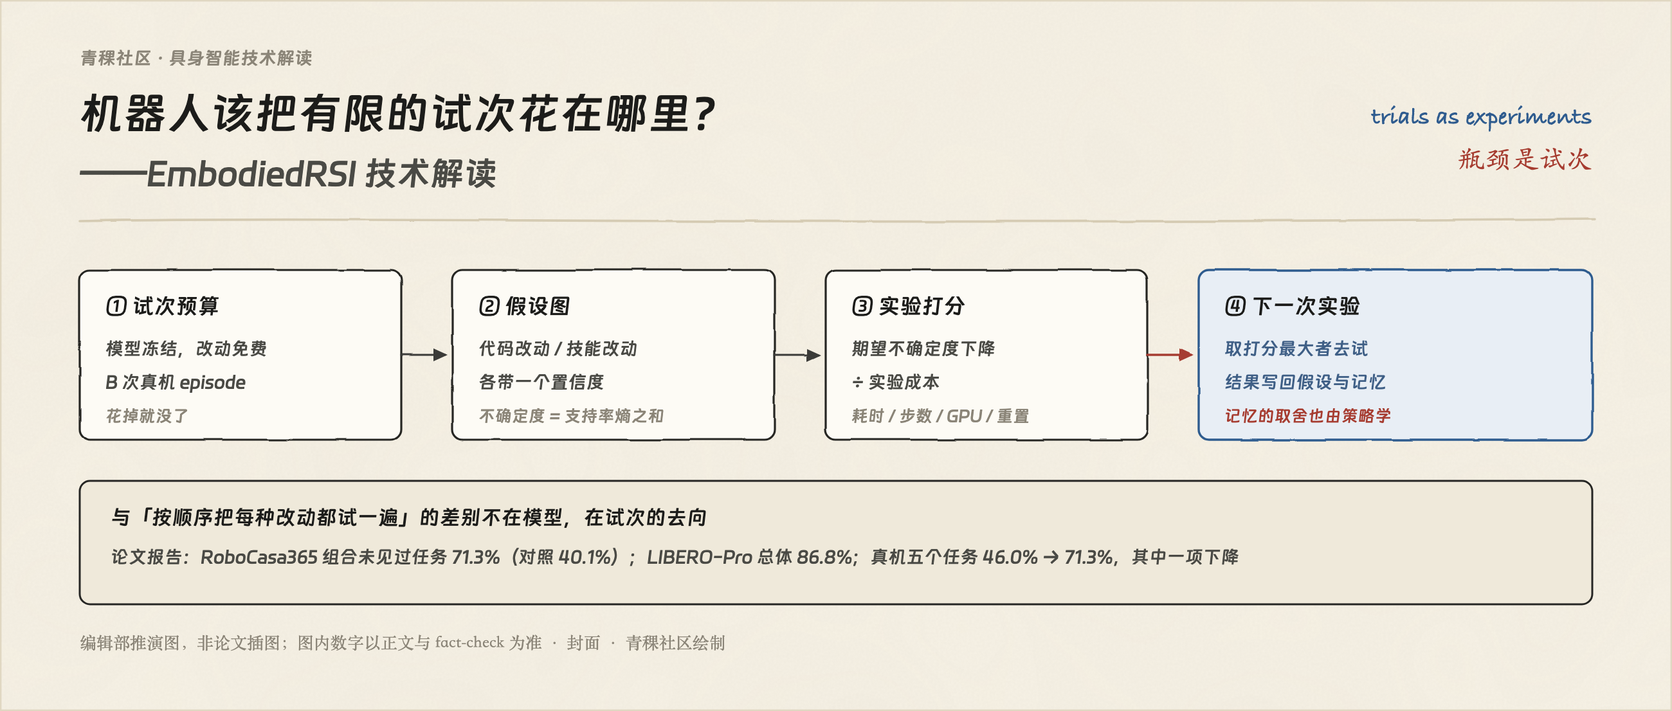
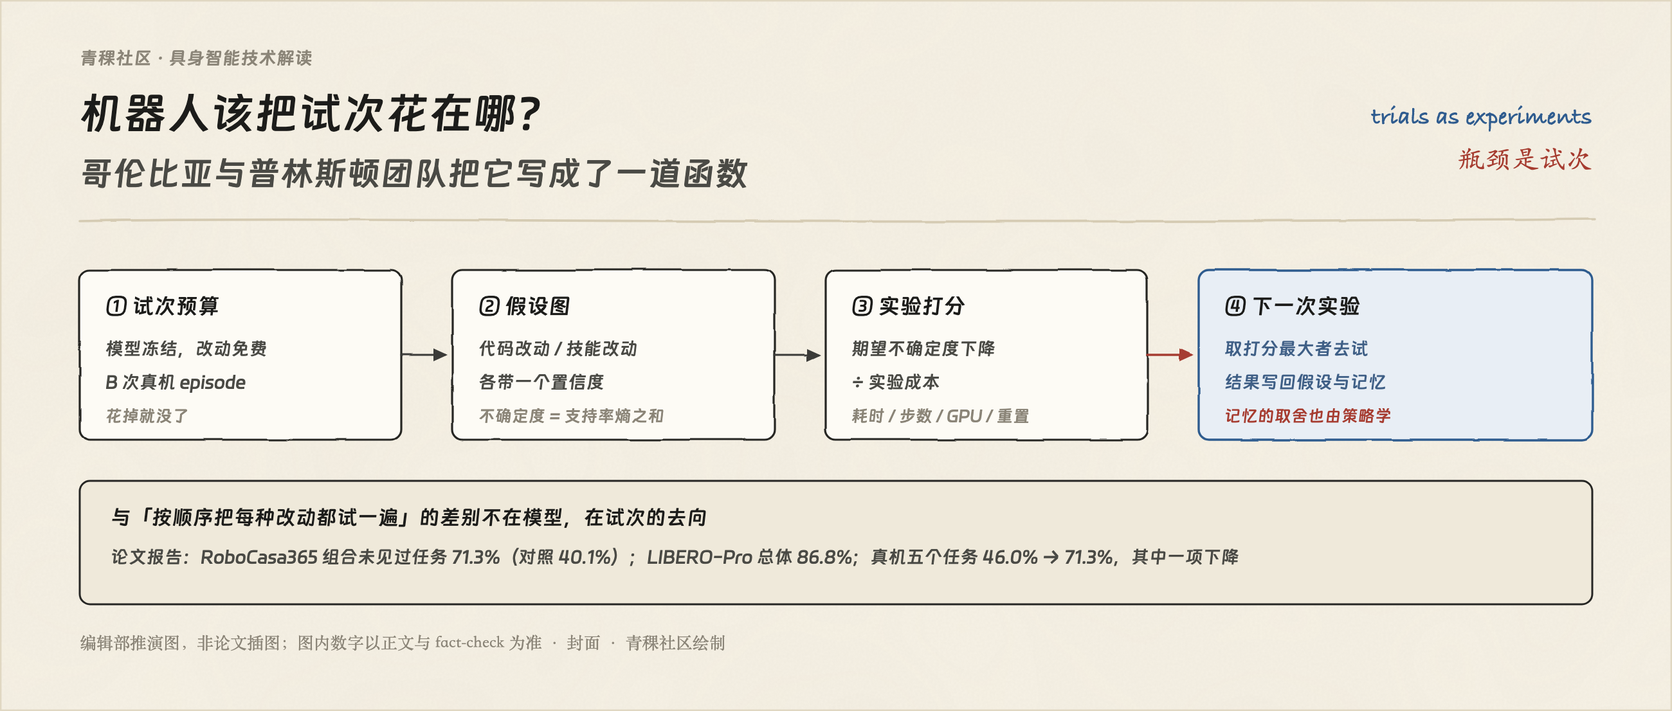
Revision article/010：改标题并重设结构，同步封面
对应私有仓库 PR #87。三个文件：

1. article/010/index.html ← release/016-embodied-rsi/article-final.html
   （52042 字节 / 512d5761…）：标题改为「机器人该把试次花在哪？哥伦比亚与
   普林斯顿团队把它写成了一道函数」；结构改为「问题 → 做法 → 四个发现（各带
   自己的数字）→ 泛化与真机 → 回到开头的问题」，两组消融数字从原第七节上移到
   对应的发现节。
2. article/010/images/cover_notebook.png：封面两行标题随之重绘
   （1162582 → 1167535 字节，2600×1106）。
3. index.html：首页卡片标题同步。

其余 8 篇与首页其他卡片未动。

Changed region(s): [[0.0312, 0.2152, 0.4673, 0.2767], [0.1558, 0.123, 0.4362, 0.1844]]

diff --git a/article/010/index.html b/article/010/index.html
@@ -2,10 +2,10 @@
 <html lang="zh-CN">
 <head>
 <meta charset="utf-8">
-<title>机器人该把有限的试次花在哪里？——EmbodiedRSI 技术解读</title>
+<title>机器人该把试次花在哪？哥伦比亚与普林斯顿团队把它写成了一道函数</title>
 </head>
 <body style="font-family:-apple-system,'PingFang SC','Heiti SC',sans-serif;color:#14161a;max-width:720px;margin:0 auto;padding:24px;background:#ffffff;">
-<h1 style="font-size:23px;font-weight:600;line-height:1.4;margin:0 0 22px;">机器人该把有限的试次花在哪里？——EmbodiedRSI 技术解读</h1>
+<h1 style="font-size:23px;font-weight:600;line-height:1.4;margin:0 0 22px;">机器人该把试次花在哪？哥伦比亚与普林斯顿团队把它写成了一道函数</h1>
 <img alt="封面：试次预算下的四个环节" src="https://qingkelab.github.io/qingke-embodied-ai-pages/article/010/images/cover_notebook.png" style="max-width:100%;height:auto;display:block;margin:0 auto;" />
 <p style="font-size:16px;line-height:1.8;margin:0 0 16px;"><em>封面：从试次预算到假设图、实验打分与下一次实验。编辑部推演图，非论文插图。图：青稞社区绘制。</em></p>
 <h2 style="font-size:19px;font-weight:600;line-height:1.5;margin:30px 0 14px;">开场：一道算术题，和它要花的试次</h2>
@@ -13,10 +13,11 @@
 <p style="font-size:16px;line-height:1.8;margin:0 0 16px;">难的地方不在抓取。牌的顺序和朝向每次都被打乱，模型得先在当前画面里做完一次语义与算术推理，才知道该动哪一张。</p>
 <p style="font-size:16px;line-height:1.8;margin:0 0 16px;">2026 年 10 月的论文《EmbodiedRSI: Active Continual Robot Learning Through Hypothesis-Guided Co-Evolution》给这类任务换了一种组织方式。一个 agent harness 负责推理、决定做什么，一个冻结的视觉语言动作模型负责动手。</p>
 <p style="font-size:16px;line-height:1.8;margin:0 0 16px;">同一个任务上，论文报告单用被冻结的基础模型拿到 10.0% 的成功率，套上 harness 之后是 90.0%（arXiv:2610.10498v1，Table 3，每任务 30 次试次）。</p>
-<p style="font-size:16px;line-height:1.8;margin:0 0 16px;">论文的四条结论可以各自先用一句话说完：</p>
-<ul style="font-size:16px;line-height:1.8;margin:0 0 18px;padding-left:24px;"><li>模型冻结时，改代码与技能是免费的，验证不免费。它把「下一次试什么」写成一个可计算的函数，打分是「期望不确定度下降 ÷ 实验成本」。</li><li>代码与技能得一起改。只改代码在已见原子任务上更好，到了未见过的任务组合，排序反转：联合演化 71.3%，只改技能 55.6%。</li><li>记忆该保留什么，本身是学出来的，奖励只看它有没有让后面的实验更省、更准。</li><li>结果：RoboCasa365 总体 77.0%，LIBERO-Pro 86.8%，真机 46.0% → 71.3%。</li></ul>
+<p style="font-size:16px;line-height:1.8;margin:0 0 16px;">论文的作者是 Python Song、Zhixuan Liang、Kelsey Fu、Mengdi Wang、Junfeng Yang、Shilong Liu 六人，单位是哥伦比亚大学与普林斯顿大学。</p>
+<p style="font-size:16px;line-height:1.8;margin:0 0 16px;">四条结论可以各自先用一句话说完：</p>
+<ul style="font-size:16px;line-height:1.8;margin:0 0 18px;padding-left:24px;"><li>模型冻结时，改代码与技能是免费的，验证不免费。它把「下一次试什么」写成一个可计算的函数，打分是「期望不确定度下降 ÷ 实验成本」。</li><li>50 个物理 episode 之后，这套选择达到 72.9% 的成功率与 0.635 的学习 AUC，随机挑选实验只有 27.1% 与 0.309。</li><li>代码与技能得一起改。只改代码在已见原子任务上更好，到了未见过的任务组合，排序反转：联合演化 71.3%，只改技能 55.6%。</li><li>记忆该保留什么，本身是学出来的，奖励只看它有没有让后面的实验更省、更准。</li></ul>
 <p style="font-size:16px;line-height:1.8;margin:0 0 16px;">这个数字容易让人把注意力放在「harness 有用」上。我想追的是另一个问题：模型冻结、改动免费的前提下，稀缺的东西变成了真机试次，那这篇论文是怎么决定把试次花在哪里的？</p>
-<h2 style="font-size:19px;font-weight:600;line-height:1.5;margin:30px 0 14px;">一、旧方案背着三个包袱</h2>
+<h2 style="font-size:19px;font-weight:600;line-height:1.5;margin:30px 0 14px;">一、为什么瓶颈会落到「试次」上</h2>
 <p style="font-size:16px;line-height:1.8;margin:0 0 16px;">要看清这篇改了什么，先得看执行层适配原本要背什么。</p>
 <p style="font-size:16px;line-height:1.8;margin:0 0 16px;">把冻结的 VLA 降级成可重试原语、让 planner 与记忆接管执行，这条路线本系列第 5 篇讨论过。它确实绕开了重训，但有三样东西留在原地。</p>
 <p style="font-size:16px;line-height:1.8;margin:0 0 16px;">第一，改什么靠人列。系统能改代码、能改技能定义，可这一轮该动哪一处，通常由人写规则或按启发式排序。</p>
@@ -30,7 +31,7 @@
 <p style="font-size:16px;line-height:1.8;margin:0 0 16px;">论文处理的是它的次生问题：改动免费之后，怎么避免把试次浪费在重复验证上。</p>
 <img alt="同一个试次预算，两种花法" src="https://qingkelab.github.io/qingke-embodied-ai-pages/article/010/images/fig1_budget_allocation.png" style="max-width:100%;height:auto;display:block;margin:0 auto;" />
 <p style="font-size:16px;line-height:1.8;margin:0 0 16px;"><em>图 1：同一个试次预算下的两种花法。上：按固定顺序试改动；下：先维护互相竞争的假设，再按「期望不确定度下降 ÷ 实验成本」挑下一次实验。这是本刊用来定位这篇论文的分析框架，不是论文原图。图：青稞社区绘制。</em></p>
-<h2 style="font-size:19px;font-weight:600;line-height:1.5;margin:30px 0 14px;">二、这篇换的那一层：把「选实验」写成函数</h2>
+<h2 style="font-size:19px;font-weight:600;line-height:1.5;margin:30px 0 14px;">二、做法：把「选实验」写成一个函数</h2>
 <p style="font-size:16px;line-height:1.8;margin:0 0 16px;">论文先做了一个形式化，把 harness 本身当作可被优化的对象。</p>
 <p style="font-size:16px;line-height:1.8;margin:0 0 16px;">跑过 k 次物理 episode 之后，当前 harness 记作 A<sub>k</sub>，包含四样东西：可执行的代码、技能、假设集合 H<sub>k</sub>、累积记忆 M<sub>k</sub>。</p>
 <p style="font-size:16px;line-height:1.8;margin:0 0 16px;">每一次 episode，系统从候选实验集合里挑一个物理实验：</p>
@@ -45,10 +46,10 @@
 <p style="font-size:16px;line-height:1.8;margin:0 0 16px;">如果选实验的策略可以被单独替换，那么「试次分配」就有了自己的评测面。固定冻结的模型、任务与预算，只替换 f，就能测出分配策略本身值多少。</p>
 <p style="font-size:16px;line-height:1.8;margin:0 0 16px;">论文后面那组与随机探索的对照，用的正是这个切口。</p>
 <p style="font-size:16px;line-height:1.8;margin:0 0 16px;">系统被分成两边。快系统（Fast System）从假设出发挑实验、执行、把结果写回置信度，并推动代码与技能演化；慢系统（Slow System）维护三层记忆，决定哪些证据该保留、合并、抽象、压缩、遗忘或跳过。</p>
-<p style="font-size:16px;line-height:1.8;margin:0 0 16px;">两边的接口是假设与记忆。</p>
+<p style="font-size:16px;line-height:1.8;margin:0 0 16px;">两边的接口是假设与记忆。接下来四节分别看这四件事各自做到了什么。</p>
 <img alt="EmbodiedRSI 总览" src="https://qingkelab.github.io/qingke-embodied-ai-pages/article/010/images/rsi_fig2_overview.png" style="max-width:100%;height:auto;display:block;margin:0 auto;" />
 <p style="font-size:16px;line-height:1.8;margin:0 0 16px;"><em>图 2：论文给出的系统总览——左侧快系统（假设与 VOI、代码-技能共演化、物理试验），中间分层记忆，右侧慢系统（闭环奖励、记忆动作、operator）。来源：Song et al., arXiv:2610.10498v1, Fig. 2。</em></p>
-<h2 style="font-size:19px;font-weight:600;line-height:1.5;margin:30px 0 14px;">三、机制一：假设图，把「改什么」变成可检验的命题</h2>
+<h2 style="font-size:19px;font-weight:600;line-height:1.5;margin:30px 0 14px;">三、发现一：改动先要可比，试次才不浪费</h2>
 <p style="font-size:16px;line-height:1.8;margin:0 0 16px;">要让「下一次试什么」可计算，候选改动先得可比较。</p>
 <p style="font-size:16px;line-height:1.8;margin:0 0 16px;">论文用一张假设图来装它们。代码改动（C 节点）与技能改动（S 节点）都是图中的节点，各自带一条指向修订版本的 refines 边。</p>
 <p style="font-size:16px;line-height:1.8;margin:0 0 16px;">随着物理证据积累，原本悬着的代码-技能关联会被确认成 works-with 关系。</p>
@@ -58,7 +59,7 @@
 <p style="font-size:16px;line-height:1.8;margin:0 0 16px;">论文把探索不确定度写成各假设支持率熵之和 H<sub>exp</sub> = Σ, h<sub>2</sub>(q<sub>i</sub>)，其中 q<sub>i</sub> 是「该假设支持率大于二分之一的概率」。</p>
 <p style="font-size:16px;line-height:1.8;margin:0 0 16px;">假设不是人写好的固定清单。每一条执行轨迹与结果都会用来生成新的代码或技能假设，或者把旧假设细化成更具体的版本，也就是 refines 边上那些新节点。</p>
 <p style="font-size:16px;line-height:1.8;margin:0 0 16px;">新假设刚出现时置信度低、不确定性高。正因为如此，一个匹配试次在检验旧假设的同时，也顺手给新假设提供了初始证据。</p>
-<p style="font-size:16px;line-height:1.8;margin:0 0 16px;">从使用者角度看，这套记账带来一个实际好处。每次实验之后，系统能说出「这条假设现在被支持到什么程度」，而不是只留一段成功或失败的记录。</p>
+<p style="font-size:16px;line-height:1.8;margin:0 0 16px;">这一层没有给出单独的数字，但它决定后面所有数字的意义。每次实验之后，系统能说出「这条假设现在被支持到什么程度」，而不是只留一段成功或失败的记录。</p>
 <p style="font-size:16px;line-height:1.8;margin:0 0 16px;">一条差到某个阈值的假设可以被明确排除，不用再占用下一轮的实验名额。反过来，如果只记录「试过、没成」，团队很难区分「这条路错了」和「这次手抖了」。</p>
 <p style="font-size:16px;line-height:1.8;margin:0 0 16px;">代价是把匹配试次做成真正可比较的实验。要固定初始状态，意味着场景要能被摆回原样；要固定其它调用与顺序，意味着这一次试验除了被检验的那一处，别的代码路径不能动。</p>
 <p style="font-size:16px;line-height:1.8;margin:0 0 16px;">这两条都是人工约束，也解释了这套系统为什么需要一个「场景重置」成本项。</p>
@@ -67,7 +68,7 @@
 <p style="font-size:16px;line-height:1.8;margin:0 0 16px;">这里有个容易跳过的工程前提。更新假设用的是匹配试次，也就是固定初始状态、固定其它调用及其顺序，只比较成功率差（arXiv:2610.10498v1，§3.2）。</p>
 <p style="font-size:16px;line-height:1.8;margin:0 0 16px;">真机上「这次成了、上次没成」之间可能同时变了摆位、光照、抓取姿态。这些变量不按住，差值就不能归到那条假设头上。</p>
 <p style="font-size:16px;line-height:1.8;margin:0 0 16px;">按不住还有个更贵的后果。置信度会沿错误方向更新，而后面所有决策都建在它上面。错误证据的代价就不止那一次试次，还会把后续的实验选择一起带偏。</p>
-<h2 style="font-size:19px;font-weight:600;line-height:1.5;margin:30px 0 14px;">四、机制二：信息价值除以成本</h2>
+<h2 style="font-size:19px;font-weight:600;line-height:1.5;margin:30px 0 14px;">四、发现二：按信息价值除以成本挑，学得更快</h2>
 <p style="font-size:16px;line-height:1.8;margin:0 0 16px;">候选实验是那些能更新一组假设置信度的匹配试次。论文给每个实验算一次信息价值：执行它之后，探索不确定度的期望下降。</p>
 <p style="font-size:16.5px;line-height:2.1;margin:0 0 18px;text-align:center;font-family:Georgia,'Times New Roman',serif;">G<sub>k</sub>(t) = H<sub>exp</sub>(D<sub>k</sub>) - E<sub>e ∼ P(e | D<sub>k</sub>, t)</sub>[ H<sub>exp</sub>(D<sub>k</sub> ∪ {e}) ]</p>
 <p style="font-size:16px;line-height:1.8;margin:0 0 16px;">只按信息量排序还不够，真机上不同实验贵的程度不同。论文另外定义实验成本，由四项加权组成：</p>
@@ -75,15 +76,17 @@
 <p style="font-size:16px;line-height:1.8;margin:0 0 16px;">这四项分别是耗时、仿真步数、GPU 开销与场景重置开销。最终打分是两者相除，取最大者作为下一次实验：</p>
 <p style="font-size:16.5px;line-height:2.1;margin:0 0 18px;text-align:center;font-family:Georgia,'Times New Roman',serif;">VOI<sub>k</sub>(t) = G<sub>k</sub>(t) / C(t), 　　 t<sup>*</sup><sub>k</sub> = arg max<sub>t</sub> VOI<sub>k</sub>(t)</p>
 <p style="font-size:16px;line-height:1.8;margin:0 0 16px;">写成比值而不是相减，对真机实验更自然。它默认了「同样一份不确定性的减少值多少代价」。</p>
+<p style="font-size:16px;line-height:1.8;margin:0 0 16px;">效果在这组数字里。50 个物理 episode 之后，论文报告总体成功率 72.9%、学习 AUC 0.635，而对照的随机探索是 27.1% 与 0.309（Table 4）。</p>
+<p style="font-size:16px;line-height:1.8;margin:0 0 16px;">随机基线是「随机选择代码与技能实验」，没有任何先验或启发。所以这组数字说明的是定向选择明显优于无定向，说明不了这套方法已经接近最优。</p>
+<p style="font-size:16px;line-height:1.8;margin:0 0 16px;">曲线本身也给了一处旁证。在 LIBERO-Pro 的 SPAT-T 上，VOI 选择在 50 个物理 episode 内把八 episode 滚动成功率推到 100% 并保持；随机选择到第 100 个 episode 仍在波动、结束时约 75.0%（Fig. 7）。这是单一代表性案例。</p>
 <p style="font-size:16px;line-height:1.8;margin:0 0 16px;">四项成本里最后一项值得单独说。把「场景摆回去要多久」算进去，等于假定系统是在真实工作台旁边反复重摆，而不是跑一次大评测。</p>
 <p style="font-size:16px;line-height:1.8;margin:0 0 16px;">把这套打分和「按顺序把每种改动试一遍」放在一起看，差别就出来了。</p>
 <p style="font-size:16px;line-height:1.8;margin:0 0 16px;">后者不区分哪一项还没被证清楚，已经确认有效的方向还会被反复验证，没被证清楚的假设可能一直排在队尾。VOI 打分做的，是把「哪个改动还没被证清楚」顶到前面。</p>
 <p style="font-size:16px;line-height:1.8;margin:0 0 16px;">这里还有个隐含前提。熵对所有假设一视同仁，但假设错起来的后果并不一样。有的改动错了只是多花几秒，有的可能让机械臂撞上台面。成本项覆盖的是实验开销，不是风险。</p>
 <p style="font-size:16px;line-height:1.8;margin:0 0 16px;">打算在自己平台上跑这套东西的人，会碰到两个可操作的后果。</p>
 <p style="font-size:16px;line-height:1.8;margin:0 0 16px;">一是候选实验的构造决定了系统的天花板。候选集合里如果没有「能区分这两条假设」的那类实验，打分再准也选不出有用的试次。</p>
-<p style="font-size:16px;line-height:1.8;margin:0 0 16px;">二是成本权重决定系统的性格。把重置开销调高，系统更倾向一次做干净的实验；调低，它接受更多将就着试的快速迭代。</p>
-<p style="font-size:16px;line-height:1.8;margin:0 0 16px;">这两种性格在不同平台上都可能合理，但它们不是同一套方法，同一套实现在两间实验室里的表现也未必一致。</p>
-<h2 style="font-size:19px;font-weight:600;line-height:1.5;margin:30px 0 14px;">五、机制三：代码与技能为什么要一起改</h2>
+<p style="font-size:16px;line-height:1.8;margin:0 0 16px;">二是成本权重决定系统的性格。把重置开销调高，系统更倾向一次做干净的实验；调低，它接受更多将就着试的快速迭代。这两种性格都可能合理，但它们不是同一套方法。</p>
+<h2 style="font-size:19px;font-weight:600;line-height:1.5;margin:30px 0 14px;">五、发现三：代码与技能必须一起改</h2>
 <p style="font-size:16px;line-height:1.8;margin:0 0 16px;">可选的动作分两类：改代码（把某一步实现得更稳、更快），或改技能（定义一个新的可复用操作）。</p>
 <p style="font-size:16px;line-height:1.8;margin:0 0 16px;">论文让两者在同一个循环里共同演化，并做了三档消融：固定冻结的 VLA、任务套件、物理实验预算与评测协议，只动「改哪一类」。</p>
 <p style="font-size:16px;line-height:1.8;margin:0 0 16px;">结果是这篇论文里最反直觉的一处：只改代码在 Atomic-Seen（单个已见任务）上比只改技能更好，但到了 Composite-Unseen（把技能组合成训练里没出现过的任务），排序反转了。</p>
@@ -96,7 +99,7 @@
 <p style="font-size:16px;line-height:1.8;margin:0 0 16px;">这个消融还解决了一个方法上的问题。在执行层做适配时，变量天然很多，模型、任务、预算、评测都能动，要做单变量对照并不容易。</p>
 <p style="font-size:16px;line-height:1.8;margin:0 0 16px;">论文把冻结的 VLA、任务套件、物理实验预算与评测协议全部固定，只让「改哪一类」变化，三档结果才有可比性。</p>
 <p style="font-size:16px;line-height:1.8;margin:0 0 16px;">对打算复现这条路线的人，这个对照设计比它的数值更值得抄走。</p>
-<h2 style="font-size:19px;font-weight:600;line-height:1.5;margin:30px 0 14px;">六、机制四：记忆不是仓库，而是一组动作</h2>
+<h2 style="font-size:19px;font-weight:600;line-height:1.5;margin:30px 0 14px;">六、发现四：记忆该留什么，可以学出来</h2>
 <p style="font-size:16px;line-height:1.8;margin:0 0 16px;">慢系统把记忆分成三层。M1 记录物理执行（执行轨迹、调用了哪些工具、VLA 在哪几步被调用、动作、遥测、结果与奖励），M2 维护代码与技能假设，M3 保留从反复证据里提炼的可复用认知。</p>
 <p style="font-size:16px;line-height:1.8;margin:0 0 16px;">M1 自动记录每一次 episode，并为 M2 的计数与关系更新提供匹配证据。跨 episode 时，慢系统把反复出现的 M1、M2 证据抽象进 M3。</p>
 <p style="font-size:16px;line-height:1.8;margin:0 0 16px;">M1 的字段构成决定了后面能做哪些统计。</p>
@@ -109,19 +112,21 @@
 <p style="font-size:16px;line-height:1.8;margin:0 0 16px;">六种动作各自解决一个具体问题。</p>
 <p style="font-size:16px;line-height:1.8;margin:0 0 16px;">保留是默认路径，把当次经验写进对应层级。合并把两条指向同一结论的记录并成一条，减少重复检索。抽象把多条 M1 证据提炼成 M3 层面的可复用结论。压缩在保留结论的前提下丢掉冗余细节。遗忘删掉已被后续证据推翻的记录。跳过则是在这一轮什么都不做。</p>
 <p style="font-size:16px;line-height:1.8;margin:0 0 16px;">前四种增加记忆的可用性，后两种控制它的成本。</p>
+<p style="font-size:16px;line-height:1.8;margin:0 0 16px;">学出来的记忆比固定规则更值，三档对照给了台阶。检索式 61.7%（AUC 0.556）、只用任务奖励的 PPO 65.2%（0.589）、完整方法 71.3%（0.635）（§4.4 记忆消融）。</p>
+<p style="font-size:16px;line-height:1.8;margin:0 0 16px;">台阶的形状说明每一层都有贡献，但论文没有再往下拆，比如只加成本项、不加熵项会怎样，所以读不到哪一层贡献最大。</p>
 <p style="font-size:16px;line-height:1.8;margin:0 0 16px;">另外两个实现细节也影响可复现性。编码用的是冻结的 Qwen3-Embedding-0.6B，执行知识更新的是冻结的 Qwen3.5-122B-A10B。</p>
 <p style="font-size:16px;line-height:1.8;margin:0 0 16px;">两个大模型都冻结，被训练的只有「选哪个记忆动作」这一层。</p>
 <p style="font-size:16px;line-height:1.8;margin:0 0 16px;">训练信号来自后面几次实验的好坏。奖励按成功率提升、探索不确定度下降与下一次实验成本三项加权，策略用 PPO 优化折扣回报（arXiv:2610.10498v1，§3.3 与 Eq. 10）。</p>
 <p style="font-size:16px;line-height:1.8;margin:0 0 16px;">记错方向的结论会被后续的负奖励慢慢压掉，不会一直留在库里。</p>
-<h2 style="font-size:19px;font-weight:600;line-height:1.5;margin:30px 0 14px;">七、结果：协议先说，再给数字</h2>
-<p style="font-size:16px;line-height:1.8;margin:0 0 16px;">给数字之前先把协议摆出来，后面每一组数字都只在这个协议里成立。</p>
+<h2 style="font-size:19px;font-weight:600;line-height:1.5;margin:30px 0 14px;">七、泛化与真机：越难的任务，差距越大</h2>
+<p style="font-size:16px;line-height:1.8;margin:0 0 16px;">四个机制看完，回到它到底做到了什么。</p>
+<p style="font-size:16px;line-height:1.8;margin:0 0 16px;">先摆协议，后面每一组数字都只在这个协议里成立。</p>
 <p style="font-size:16px;line-height:1.8;margin:0 0 16px;">仿真用两套 benchmark。RoboCasa365 考查家庭场景下的移动操作泛化，分 Atomic-Seen（单个已见任务）、Composite-Seen（组合方式见过）、Composite-Unseen（组合方式没见过）三个套件。</p>
 <p style="font-size:16px;line-height:1.8;margin:0 0 16px;">LIBERO-Pro 考查指令重定向（T）与位置交换（S）两类扰动，各四个任务族。</p>
 <p style="font-size:16px;line-height:1.8;margin:0 0 16px;">每个任务 10 个随机种子、每个种子 10 次试次，演化用 10 个种子，评测用另外 10 个互斥种子（arXiv:2610.10498v1，§4.1）。</p>
 <p style="font-size:16px;line-height:1.8;margin:0 0 16px;">种子分开这一条在 harness 类工作里很关键。如果演化和评测共用种子，学到的东西有机会贴着评测集。</p>
 <p style="font-size:16px;line-height:1.8;margin:0 0 16px;">对照方法分三类：端到端冻结 VLA（π0、π0.5、OpenVLA、RLDX-1、NORA、MolmoAct、X-VLA、AtomVLA、πRLinf）、一个世界模型基线（WorldDreamer），以及同样「用冻结 VLA + 代码或 harness」的路线（CaP-X、RATS、Harness VLA、Zetta），另有一个榜单条目（Xiaomi-Robotics-1）。</p>
 <p style="font-size:16px;line-height:1.8;margin:0 0 16px;">后一类是这篇论文要对话的对象，前三类的数字主要用来标出「不改模型能做到哪一档」。</p>
-<p style="font-size:16px;line-height:1.8;margin:0 0 16px;">真机是 SO-101 机械臂加冻结的 SmolVLA。基础模型先用每个任务 50 条人类遥操作演示做 20000 步全量微调（4×NVIDIA H200），评测期保持冻结，每个任务 30 次试次。</p>
 <p style="font-size:16px;line-height:1.8;margin:0 0 16px;">在这个协议下，论文报告的 RoboCasa365 总体成功率是 77.0%，其中 Atomic-Seen 94.4%、Composite-Seen 63.1%、Composite-Unseen 71.3%。</p>
 <p style="font-size:16px;line-height:1.8;margin:0 0 16px;">它对比的 Harness VLA 在同一张表里是 91.3 / 55.8 / 40.1，总体 63.6%（Table 1）。</p>
 <p style="font-size:16px;line-height:1.8;margin:0 0 16px;">把这四组数并排看，形状比总差值更有信息量。Atomic-Seen 上两者只差 3.1 个百分点，Composite-Unseen 上差 31.2 个百分点。</p>
@@ -145,7 +150,8 @@
 <p style="font-size:16px;line-height:1.8;margin:0 0 16px;"><em>图 4：论文给出的 RoboCasa365 任务套件示例（Atomic-Seen / Composite-Seen / Composite-Unseen）。来源：Song et al., arXiv:2610.10498v1, Fig. 4。</em></p>
 <img alt="真机五任务的初始场景、接近与目标状态" src="https://qingkelab.github.io/qingke-embodied-ai-pages/article/010/images/rsi_fig5_real_robot.png" style="max-width:100%;height:auto;display:block;margin:0 auto;" />
 <p style="font-size:16px;line-height:1.8;margin:0 0 16px;"><em>图 5：论文给出的真机任务三连图（放 Oreo、选扑克牌、叠蛋糕）。每张图从左到右是初始场景、机器人接近、目标状态。来源：Song et al., arXiv:2610.10498v1, Fig. 5。</em></p>
-<p style="font-size:16px;line-height:1.8;margin:0 0 16px;">真机五个任务里，整体成功率从 46.0% 提升到 71.3%（Table 3）。</p>
+<p style="font-size:16px;line-height:1.8;margin:0 0 16px;">真机是 SO-101 机械臂加冻结的 SmolVLA。基础模型先用每个任务 50 条人类遥操作演示做 20000 步全量微调（4×NVIDIA H200），评测期保持冻结，每个任务 30 次试次。</p>
+<p style="font-size:16px;line-height:1.8;margin:0 0 16px;">五个任务里，整体成功率从 46.0% 提升到 71.3%（Table 3）。</p>
 <p style="font-size:16px;line-height:1.8;margin:0 0 16px;">分项是：放 Oreo 70.0% → 86.7%，选扑克牌 10.0% → 90.0%，叠蛋糕 63.3% → 76.7%，提眼镜桥 60.0% → 56.7%，折毛巾 26.7% → 46.7%。</p>
 <p style="font-size:16px;line-height:1.8;margin:0 0 16px;">第四项是唯一一处下降，论文没有专门解释它。按 30 次试次算，这里一个百分点约等于 0.3 次试次，任务之间的细微差别不该被过度解读。</p>
 <p style="font-size:16px;line-height:1.8;margin:0 0 16px;">但增益的分布本身说明问题。</p>
@@ -157,25 +163,15 @@
 <p style="font-size:16px;line-height:1.8;margin:0 0 16px;">所有大增益都落在任务结构可以被代码化、被语言说清的地方；唯一一次下降落在最纯粹的执行精度任务上。</p>
 <p style="font-size:16px;line-height:1.8;margin:0 0 16px;">论文结论写的是「preserving the underlying model&#39;s local control competence」，眼镜桥那 −3.3 恰好是这句话的一个小反例。</p>
 <p style="font-size:16px;line-height:1.8;margin:0 0 16px;">这个读法比「harness 在未见组合上最关键」保守，但它能同时解释上表四个数字，包括那个 +8.2 的反常：组合类任务的难点本来就在任务组织而不在动作生成，正好落在代码层能发力的区间。</p>
-<p style="font-size:16px;line-height:1.8;margin:0 0 16px;">学习效率那一组同样要看协议。50 个物理 episode 之后，论文报告总体成功率 72.9%、学习 AUC 0.635，而对照的随机探索是 27.1% 与 0.309（Table 4）。</p>
-<p style="font-size:16px;line-height:1.8;margin:0 0 16px;">随机基线是「随机选择代码与技能实验」，没有任何先验或启发。所以这组数字说明的是定向选择明显优于无定向，说明不了这套方法已经接近最优。</p>
-<p style="font-size:16px;line-height:1.8;margin:0 0 16px;">记忆部分的三档对照也说明同一件事。检索式 61.7%（AUC 0.556）、只用任务奖励的 PPO 65.2%（0.589）、完整方法 71.3%（0.635）。</p>
-<p style="font-size:16px;line-height:1.8;margin:0 0 16px;">台阶的形状说明每一层都有贡献，但论文没有再往下拆，比如只加成本项、不加熵项会怎样，所以读不到哪一层贡献最大。</p>
-<p style="font-size:16px;line-height:1.8;margin:0 0 16px;">把这几组数字放回工程语境，会看到成本结构的两面。</p>
-<p style="font-size:16px;line-height:1.8;margin:0 0 16px;">省下来的是数据采集与重训。真机上只需要跑几十次试次，基础模型一次微调之后就固定不动。</p>
-<p style="font-size:16px;line-height:1.8;margin:0 0 16px;">花掉的是另一头的开销。每次实验要重置场景、要有人盯着判定结果，而论文报告的学习效率意味着这套流程必须先跑完几十次试次才开始有回报。</p>
-<p style="font-size:16px;line-height:1.8;margin:0 0 16px;">对愿意把机器人和实验台长时间占住的团队，这笔账划算；对只能借到半天机时的团队，它未必成立。</p>
 <h2 style="font-size:19px;font-weight:600;line-height:1.5;margin:30px 0 14px;">八、它还没有证明什么</h2>
 <p style="font-size:16px;line-height:1.8;margin:0 0 16px;">第一，它没有提高模型本身的能力。</p>
 <p style="font-size:16px;line-height:1.8;margin:0 0 16px;">论文在结论里自己把这点列为限制：这类方法从物理轨迹里学到的可执行行为不更新机器人基础模型的参数，作者提出的下一步是把 harness 选出的轨迹用于在线模型更新。</p>
 <p style="font-size:16px;line-height:1.8;margin:0 0 16px;">也就是说，这里的「持续学习」学的是代码、技能与记忆，模型只是被更聪明地调度了。这条线上的所有增益都受这个前提约束。</p>
 <p style="font-size:16px;line-height:1.8;margin:0 0 16px;">第二，真机的样本量不支持细排序。五个任务、每任务 30 次试次，而且已经出现一项下降。拿这五个数字去给方法的稳健性排序，证据不够。</p>
-<p style="font-size:16px;line-height:1.8;margin:0 0 16px;">第三，对照数值的来源需要保守对待。表 1、表 2 里那些 VLA 与 harness 的数字，论文没有逐项说明是自报还是作者复现。</p>
-<p style="font-size:16px;line-height:1.8;margin:0 0 16px;">本文一律按「论文报告」处理，把它们之间的差距读成「这条路线值得跟进」。</p>
+<p style="font-size:16px;line-height:1.8;margin:0 0 16px;">第三，对照数值的来源需要保守对待。表 1、表 2 里那些 VLA 与 harness 的数字，论文没有逐项说明是自报还是作者复现。本文一律按「论文报告」处理。</p>
 <p style="font-size:16px;line-height:1.8;margin:0 0 16px;">第四，「Physical Aha Moment」还不是机制。</p>
-<p style="font-size:16px;line-height:1.8;margin:0 0 16px;">论文引用这个概念（agent 找到让 VLA 回到分布内的关键物理状态变量），并用一个 LIBERO-Pro 的代表性案例展示：VOI 选择在 50 个物理 episode 内把八 episode 滚动成功率推到 100% 并保持，随机选择到第 100 个 episode 仍在波动、结束时约 75.0%（Fig. 7）。</p>
-<p style="font-size:16px;line-height:1.8;margin:0 0 16px;">这是单一案例的曲线。</p>
-<p style="font-size:16px;line-height:1.8;margin:0 0 16px;">第五，成本权重是设计决策，不是常数。四项成本怎么加权，直接决定系统在「多花时间做一次干净实验」与「将就着多试几次」之间怎么取舍。换硬件或换仿真器，策略行为会跟着变。</p>
+<p style="font-size:16px;line-height:1.8;margin:0 0 16px;">论文用一个 LIBERO-Pro 的代表性案例展示这个概念（agent 找到让 VLA 回到分布内的关键物理状态变量），那是一条单一案例的曲线，不是跨任务的规律。</p>
+<p style="font-size:16px;line-height:1.8;margin:0 0 16px;">第五，成本权重是设计决策，不是常数。四项成本怎么加权，直接决定系统在多花时间做一次干净实验与将就着多试几次之间怎么取舍。换硬件或换仿真器，策略行为会跟着变。</p>
 <p style="font-size:16px;line-height:1.8;margin:0 0 16px;">第六，两个 benchmark 的结果不能合并成一个结论。</p>
 <p style="font-size:16px;line-height:1.8;margin:0 0 16px;">RoboCasa365 考的是家庭场景的任务组合泛化，LIBERO-Pro 考的是指令与位置扰动下的执行，两者的任务分布、判定与难度都不同。</p>
 <p style="font-size:16px;line-height:1.8;margin:0 0 16px;">论文分开报，读的时候也应该分开读。把 77.0% 与 86.8% 平均成一个数字，只会得到一个既不描述仿真也不描述真机的数。</p>
@@ -192,17 +188,17 @@
 <p style="font-size:16px;line-height:1.8;margin:0 0 16px;">正文把各动作的结果概率（附录 D）、实验配置与四项成本权重（附录 E）、记忆动作定义（附录 C）、PPO 训练设置（附录 F）、主干与真机设置（附录 I 与 B）逐一前向引用到附录，但 v1 的 PDF 到 References 就结束，A–I 一节都没有。</p>
 <p style="font-size:16px;line-height:1.8;margin:0 0 16px;">全文只出现一次「Algorithm 1」，就是那句前向引用本身。式 (6) 的期望要先算出来才能排序，而那需要附录 D 的结果概率。</p>
 <p style="font-size:16px;line-height:1.8;margin:0 0 16px;">这套系统的核心机制按 v1 无法复现，能读到的只有架构叙述。12 页里放六个命名组件，每个都只剩下一段话，这是篇幅换来的。</p>
-<h2 style="font-size:19px;font-weight:600;line-height:1.5;margin:30px 0 14px;">九、回到开头的问题：试次该花在哪里</h2>
+<h2 style="font-size:19px;font-weight:600;line-height:1.5;margin:30px 0 14px;">九、回到开头的问题：试次该花在哪</h2>
 <p style="font-size:16px;line-height:1.8;margin:0 0 16px;">开头那个问题现在可以收一下：模型冻结、改动免费时，试次该花在哪？</p>
-<p style="font-size:16px;line-height:1.8;margin:0 0 16px;">这篇论文的答案是先把「试次花在哪」本身变成一个可计算的量，再用它去换代价值。</p>
+<p style="font-size:16px;line-height:1.8;margin:0 0 16px;">论文的答案是先把「试次花在哪」本身变成一个可计算的量，再用它去换代价值。</p>
 <p style="font-size:16px;line-height:1.8;margin:0 0 16px;">它把执行层适配的瓶颈换了个说法，而且换得对。当改动不再需要训练，约束就落在验证次数上；把「下一次试什么」显式建模，比继续增加可改的模块更贴近真机上的实际困难。</p>
 <p style="font-size:16px;line-height:1.8;margin:0 0 16px;">但它改的是任务结构，不是执行精度。</p>
 <p style="font-size:16px;line-height:1.8;margin:0 0 16px;">把四条增益形状放在一起：已见原子任务几乎不动（+3.1），语义与算术落地任务跳到 +80.0，相对 VLA 的未见组合 +31.2，而唯一的负项出现在最纯粹的执行精度任务上（−3.3）。</p>
 <p style="font-size:16px;line-height:1.8;margin:0 0 16px;">这条边界对落地判断很直接。如果你的任务难点是「东西在哪、先做哪一步、目标是什么」，这层值得试；如果难点是「怎么在一厘米的间隙里稳稳夹住」，它现在帮不上忙。</p>
 <p style="font-size:16px;line-height:1.8;margin:0 0 16px;">这也解释了为什么它的收益会集中在一项算术题上。能被语言说清的难点，才有东西可以写进代码。</p>
-<p style="font-size:16px;line-height:1.8;margin:0 0 16px;">最值钱的一条可能是「成本进入决策」。四项成本里放进了场景重置与仿真步数，方法形状就跟着变了。同一套实现在另一间实验室、另一个仿真器上，未必还是同一套行为。</p>
-<p style="font-size:16px;line-height:1.8;margin:0 0 16px;">结论应该读成方向，不是幅度。论文给的是几组自报结果与一条学习曲线，真机上还有一项下降。</p>
-<p style="font-size:16px;line-height:1.8;margin:0 0 16px;">值得观察的信号是：不更新参数的前提下，harness 能否把每一次试次的价值攒下来。</p>
+<p style="font-size:16px;line-height:1.8;margin:0 0 16px;">回头核一遍开场那四条结论，三条站得住，一条要加限定。</p>
+<p style="font-size:16px;line-height:1.8;margin:0 0 16px;">站得住的三条是：试次可以当预算分配（72.9% 对随机 27.1%）；代码与技能要一起改（71.3% 对只改技能 55.6%）；记忆的取舍可以学（61.7% → 65.2% → 71.3%）。三条都来自论文自己的消融，协议写得清楚。</p>
+<p style="font-size:16px;line-height:1.8;margin:0 0 16px;">要加限定的是第一条里的「可计算」：算得出来不等于算得准，成本权重怎么定、候选实验怎么构造，都由人先定好，而这两项决定了系统的天花板与性格。</p>
 <p style="font-size:16px;line-height:1.8;margin:0 0 16px;">如果要给这条线留可验证的开放项，我会选三个：</p>
 <ol style="font-size:16px;line-height:1.8;margin:0 0 18px;padding-left:24px;"><li>分配策略的净收益：固定模型、任务与预算，把 VOI 选实验换成随机探索，在同一批种子上比较学习 AUC。论文给了一版，需要第三方在不同硬件上复现。</li><li>代码与技能的边界：在更多任务分布上测「只改代码 / 只改技能 / 一起改」的排序，确认 Atomic-Seen 与 Composite-Unseen 的反转在什么条件下出现。</li><li>与「用试次更新权重」的对照：把 harness 选出的轨迹拿去在线更新基础模型，在同一个预算下比较两条路线，看试次花在代码上还是参数上更值。</li></ol>
 <p style="font-size:16px;line-height:1.8;margin:0 0 16px;">这三项都不是「未来可期」式的许愿，它们各自有明确的设置与读数。</p>

diff --git a/index.html b/index.html
@@ -144,7 +144,7 @@
       <li>
         <a class="card" href="article/010/">
           <img class="card-cover" src="article/010/images/cover_notebook.png" alt="文章封面">
-          <span class="card-title">机器人该把有限的试次花在哪里？——EmbodiedRSI 技术解读</span>
+          <span class="card-title">机器人该把试次花在哪？哥伦比亚与普林斯顿团队把它写成了一道函数</span>
           <span class="card-desc">当适配发生在执行层、模型保持冻结，真正的瓶颈变成「真机试次怎么花」：把改动写成假设，用信息价值除以实验成本挑下一次实验，并让记忆的取舍本身被强化学习训练。</span>
           <span class="card-meta">第 10 篇 · 阅读全文 →</span>
         </a>
